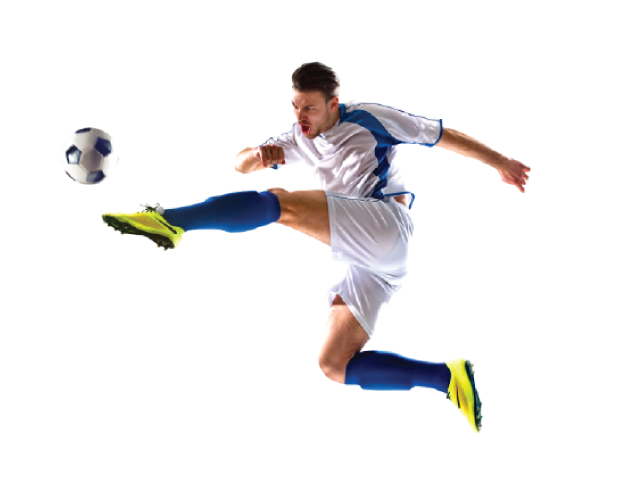
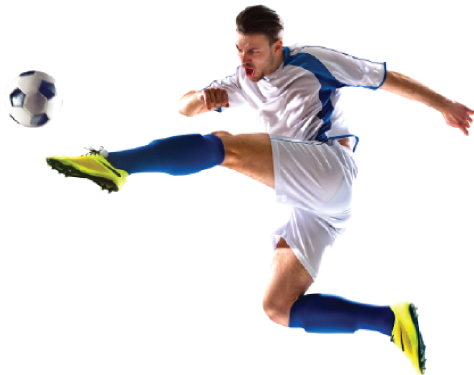
update

Changed region(s): [[0.0886, 0.0, 1.0, 1.0], [0.0, 0.176, 0.1772, 0.3813]]

diff --git a/css/responsive.css b/css/responsive.css
@@ -9,6 +9,9 @@
     /*--------------------------
      header part start  
 --------------------------*/
+#header{
+    width: 100%;
+}
     .header{
         display:grid;
         grid-template-columns: repeat(1, 1fr);
@@ -18,7 +21,6 @@
     .box1 img{
         position: absolute;
         top:0px;
-        left:-150px;
         
     }
 

diff --git a/css/style.css b/css/style.css
@@ -6,10 +6,7 @@ body{
     font-family: 'Poppins', sans-serif;
     margin: 0;
 }
-main{
-   display: flex;
-   justify-content: center;
-}
+
 .container{
     width: 1050px;
 }
@@ -100,7 +97,7 @@ button a i{
 .box1 img{
     position: absolute;
     top:63px;
-    left:-350px;
+    left:-250px;
     
 }
 
